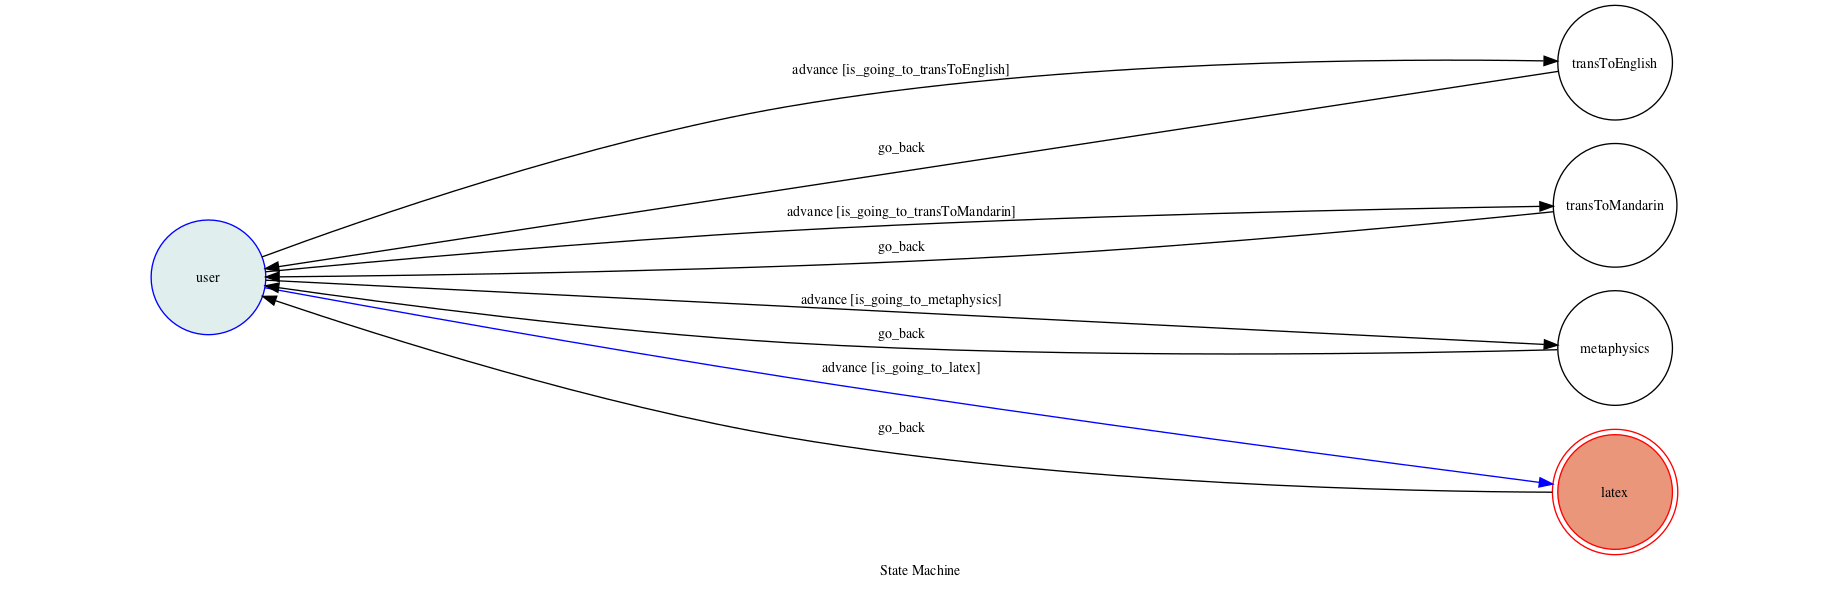
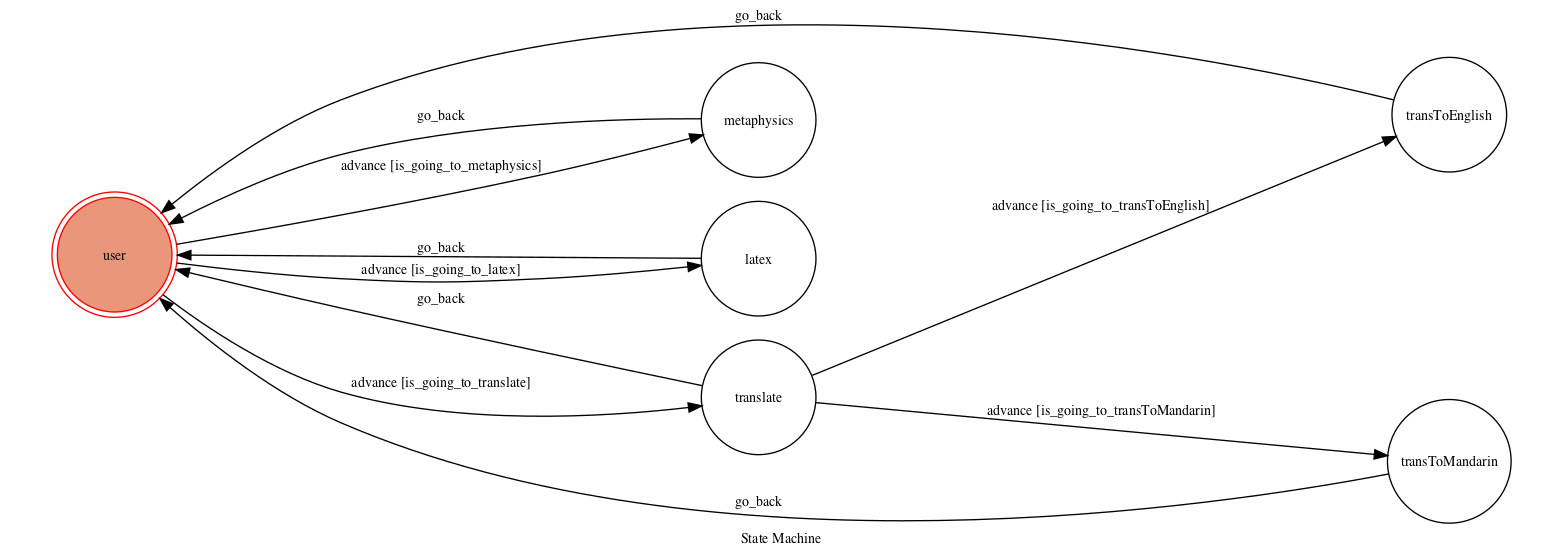
almost done

diff --git a/app.py b/app.py
@@ -20,20 +20,28 @@ from utils import send_text_message
 load_dotenv()
 translate_client = translate.Client()
 
-metaphysics_results = ["認為：尚可", "認為：大吉", "認為：小吉", "認為：凶", "認為：大凶", "你瘋了？", "這種事就隨便啦", "可惜天機不可洩漏"]
+URL = "https://09964949df7a.ngrok.io"
+
+metaphysics_results = ["尚可", "大吉", "挺不錯的", "可以考慮", "這好嗎？這不好！", "小吉", "凶", "大凶", "你瘋了？", "這種事就隨便啦", "可惜天機不可洩漏"]
 
 machine = TocMachine(
-    states=["user", "transToEnglish", "transToMandarin", "metaphysics", "latex"],
+    states=["user", "translate", "transToEnglish", "transToMandarin", "metaphysics", "latex"],
     transitions=[
         {
             "trigger": "advance",
-            "source": "user",
+            "source": "translate",
             "dest": "transToEnglish",
             "conditions": "is_going_to_transToEnglish",
         },
         {
             "trigger": "advance",
             "source": "user",
+            "dest": "translate",
+            "conditions": "is_going_to_translate",
+        },
+        {
+            "trigger": "advance",
+            "source": "translate",
             "dest": "transToMandarin",
             "conditions": "is_going_to_transToMandarin",
         },
@@ -49,7 +57,7 @@ machine = TocMachine(
             "dest": "latex",
             "conditions": "is_going_to_latex",
         },
-        {"trigger": "go_back", "source": ["transToEnglish", "transToMandarin", "metaphysics", "latex"], "dest": "user"},
+        {"trigger": "go_back", "source": ["transToEnglish", "transToMandarin", "translate", "metaphysics", "latex"], "dest": "user"},
     ],
     initial="user",
     auto_transitions=False,
@@ -62,12 +70,8 @@ def welcome_with_different_title(title, event):
     text = '啥事？'
     btn = [
         MessageTemplateAction(
-            label = '翻譯為英文',
-            text ='trans to en'
-        ),
-        MessageTemplateAction(
-            label = '翻譯為中文',
-            text = 'trans to zh'
+            label = '翻譯',
+            text ='translate'
         ),
         MessageTemplateAction(
             label = '玄學時間',
@@ -81,6 +85,7 @@ def welcome_with_different_title(title, event):
     url = 'https://i.imgur.com/B8Y06MV.jpg'
     # print(f"event.reply_token: {event.reply_token}")
     send_button_message(event.reply_token, title, text, btn, url)
+
 
 # get channel_secret and channel_access_token from your environment variable
 channel_secret = os.getenv("LINE_CHANNEL_SECRET", None)
@@ -150,7 +155,19 @@ def webhook_handler():
             continue
         print(f"\nFSM STATE: {machine.state}")
         print(f"REQUEST BODY: \n{body}")
-        if machine.state == "transToEnglish":
+        if event.message.text.lower() == 'fsm':
+            send_image_message(event.reply_token, URL + '/show-fsm')
+            continue
+        elif machine.state == "translate":
+            if event.message.text == "exit!!":
+                machine.go_back()
+                welcome_with_different_title('Welcome Back!', event)
+                continue
+            response = machine.advance(event)
+            if response == False:
+                send_text_message(event.reply_token, "Invalid input, try again please!")
+            continue
+        elif machine.state == "transToEnglish":
             if event.message.text == "exit!!":
                 machine.go_back()
                 welcome_with_different_title('Welcome Back!', event)
@@ -184,7 +201,8 @@ def webhook_handler():
             formula = r"$$" + event.message.text + r"$$"
             preview(formula, viewer='file', filename='test.png', dvioptions=['-D','1200'])
             url = "test.png"
-            send_image_message(event.reply_token, 'https://a31ddf4f99d7.ngrok.io/test.png')
+            send_image_message(event.reply_token, URL + '/test.png')
+            continue
         response = machine.advance(event)
         if response == False:
             title = '請先選擇要使用的功能'    

diff --git a/fsm.py b/fsm.py
@@ -1,11 +1,40 @@
 from transitions.extensions import GraphMachine
-
 from utils import send_text_message
+from linebot.models import ImageCarouselColumn, URITemplateAction, MessageTemplateAction
+from utils import send_text_message, send_button_message, send_image_message
+
+def choose_dest_languages(reply_token):
+    title = "再問你一個問題～"
+    text = '翻譯成啥？'
+    btn = [
+        MessageTemplateAction(
+            label = '英文',
+            text ='trans to en'
+        ),
+        MessageTemplateAction(
+            label = '中文',
+            text = 'trans to zh'
+        ),
+        MessageTemplateAction(
+            label = '俄文',
+            text = 'trans to ru'
+        ),
+        MessageTemplateAction(
+            label = '退出',
+            text = 'exit!!'
+        )
+    ]
+    url = 'https://i.imgur.com/B8Y06MV.jpg'
+    send_button_message(reply_token, title, text, btn, url)
 
 
 class TocMachine(GraphMachine):
     def __init__(self, **machine_configs):
         self.machine = GraphMachine(model=self, **machine_configs)
+
+    def is_going_to_translate(self, event):
+        text = event.message.text
+        return text.lower() == "translate"
 
     def is_going_to_transToEnglish(self, event):
         text = event.message.text
@@ -22,6 +51,13 @@ class TocMachine(GraphMachine):
     def is_going_to_latex(self, event):
         text = event.message.text
         return text.lower() == "latex"
+
+    def on_enter_translate(self, event):
+        print("I'm entering translate")
+
+        reply_token = event.reply_token
+        # msg = "Now please choose your dest language\nType 'exit!!' to exit."
+        choose_dest_languages(reply_token)
 
     def on_enter_transToEnglish(self, event):
         print("I'm entering transToEnglish")
@@ -58,3 +94,7 @@ class TocMachine(GraphMachine):
 
     def on_exit_transToMandarin(self):
         print("Leaving transToMandarin")
+
+
+
+

diff --git a/README.md b/README.md
@@ -1,52 +1,31 @@
-# TOC Project 2020
-
-[![Maintainability](https://api.codeclimate.com/v1/badges/dc7fa47fcd809b99d087/maintainability)](https://codeclimate.com/github/NCKU-CCS/TOC-Project-2020/maintainability)
-
-[![Known Vulnerabilities](https://snyk.io/test/github/NCKU-CCS/TOC-Project-2020/badge.svg)](https://snyk.io/test/github/NCKU-CCS/TOC-Project-2020)
-
-
-Template Code for TOC Project 2020
-
-A Line bot based on a finite state machine
-
-More details in the [Slides](https://hackmd.io/@TTW/ToC-2019-Project#) and [FAQ](https://hackmd.io/s/B1Xw7E8kN)
-
-## Setup
+# TOC LineBot
 
 ### Prerequisite
 * Python 3.6
-* Pipenv
-* Facebook Page and App
+* conda
+* google translate api
 * HTTPS Server
 
 #### Install Dependency
 ```sh
-pip3 install pipenv
-
-pipenv --three
-
-pipenv install
-
-pipenv shell
+# after install Miniconda or Anaconda
+conda create --name line python=3.6
+conda deactivate
+conda activate line
+conda install pygraphviz
+pip install -r requirements
 ```
 
-* pygraphviz (For visualizing Finite State Machine)
-    * [Setup pygraphviz on Ubuntu](http://www.jianshu.com/p/a3da7ecc5303)
-	* [Note: macOS Install error](https://github.com/pygraphviz/pygraphviz/issues/100)
+
 
 
 #### Secret Data
-You should generate a `.env` file to set Environment Variables refer to our `.env.sample`.
+Please midify  `.env` file to set Environment Variables refer to TA's `.env.sample`.
 `LINE_CHANNEL_SECRET` and `LINE_CHANNEL_ACCESS_TOKEN` **MUST** be set to proper values.
-Otherwise, you might not be able to run your code.
+Besides, you need another json file for google cloud translation api's authorization. And remember to set the path of the json file in `.env`.
 
-#### Run Locally
-You can either setup https server or using `ngrok` as a proxy.
-
-#### a. Ngrok installation
-* [ macOS, Windows, Linux](https://ngrok.com/download)
-
-or you can use Homebrew (MAC)
+#### Use ngrok to run it
+for mac users, use homebrew:
 ```sh
 brew cask install ngrok
 ```
@@ -59,101 +38,62 @@ ngrok http 8000
 
 After that, `ngrok` would generate a https URL.
 
-#### Run the sever
+#### Run the sever ( in your environment )
 
 ```sh
-python3 app.py
+python app.py
 ```
-
-#### b. Servo
-
-Or You can use [servo](http://serveo.net/) to expose local servers to the internet.
 
 
 ## Finite State Machine
-![fsm](./img/show-fsm.png)
+![fsm](./fsm.png)
 
 ## Usage
 The initial state is set to `user`.
 
-Every time `user` state is triggered to `advance` to another state, it will `go_back` to `user` state after the bot replies corresponding message.
+You have several choices: go to translate state; go to latex state; go to metaphysics state, or show fsm graph.
 
-* user
-	* Input: "go to state1"
-		* Reply: "I'm entering state1"
+#### State: user
 
-	* Input: "go to state2"
-		* Reply: "I'm entering state2"
+- go to **translate** state 
+    - press the corresponding button or type "translate"
+- go to **metaphysics** state 
+    - press the corresponding button or type "metaphysics"
+- go to **latex** state 
+    - press the corresponding button or type "latex"
+- show **fsm** graph
+    - type "fsm"
 
-## Deploy
-Setting to deploy webhooks on Heroku.
+#### State: translate
 
-### Heroku CLI installation
+- go to **transToEnglish** state
+    - press the corresponding button or type "trans to en"
+- go to **transToMandarin** state
+    - press the corresponding button or type "trans to zh"
+- go to **transToRussian** state
+    - press the corresponding button or type "trans to ru"
+- show **fsm** graph
+    - type "fsm"
+- exit
+    - press  the corresponding button or type "exit!!"
 
-* [macOS, Windows](https://devcenter.heroku.com/articles/heroku-cli)
+#### State: transToXXX
 
-or you can use Homebrew (MAC)
-```sh
-brew tap heroku/brew && brew install heroku
-```
+- type something and the bot will translate it to the target language.
+- type "fsm" to show **fsm** graph
+- type "exit!!" to **exit**.
 
-or you can use Snap (Ubuntu 16+)
-```sh
-sudo snap install --classic heroku
-```
+#### State: metaphysics
 
-### Connect to Heroku
+- type something and the bot will give you the forecast result.
+- type "fsm" to show **fsm** graph
+- type "exit!!" to **exit**.
 
-1. Register Heroku: https://signup.heroku.com
+#### State latex
 
-2. Create Heroku project from website
+- type simple latex formula and the bot will give you rendered formula graph.
+- type "fsm" to show **fsm** graph
+- type "exit!!" to **exit**.
 
-3. CLI Login
 
-	`heroku login`
 
-### Upload project to Heroku
-
-1. Add local project to Heroku project
-
-	heroku git:remote -a {HEROKU_APP_NAME}
-
-2. Upload project
-
-	```
-	git add .
-	git commit -m "Add code"
-	git push -f heroku master
-	```
-
-3. Set Environment - Line Messaging API Secret Keys
-
-	```
-	heroku config:set LINE_CHANNEL_SECRET=your_line_channel_secret
-	heroku config:set LINE_CHANNEL_ACCESS_TOKEN=your_line_channel_access_token
-	```
-
-4. Your Project is now running on Heroku!
-
-	url: `{HEROKU_APP_NAME}.herokuapp.com/callback`
-
-	debug command: `heroku logs --tail --app {HEROKU_APP_NAME}`
-
-5. If fail with `pygraphviz` install errors
-
-	run commands below can solve the problems
-	```
-	heroku buildpacks:set heroku/python
-	heroku buildpacks:add --index 1 heroku-community/apt
-	```
-
-	refference: https://hackmd.io/@ccw/B1Xw7E8kN?type=view#Q2-如何在-Heroku-使用-pygraphviz
-
-## Reference
-[Pipenv](https://medium.com/@chihsuan/pipenv-更簡單-更快速的-python-套件管理工具-135a47e504f4) ❤ [@chihsuan](https://github.com/chihsuan)
-
-[TOC-Project-2019](https://github.com/winonecheng/TOC-Project-2019) ❤ [@winonecheng](https://github.com/winonecheng)
-
-Flask Architecture ❤ [@Sirius207](https://github.com/Sirius207)
-
-[Line line-bot-sdk-python](https://github.com/line/line-bot-sdk-python/tree/master/examples/flask-echo)
